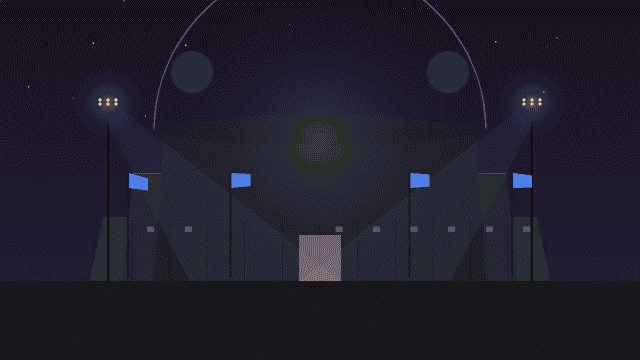
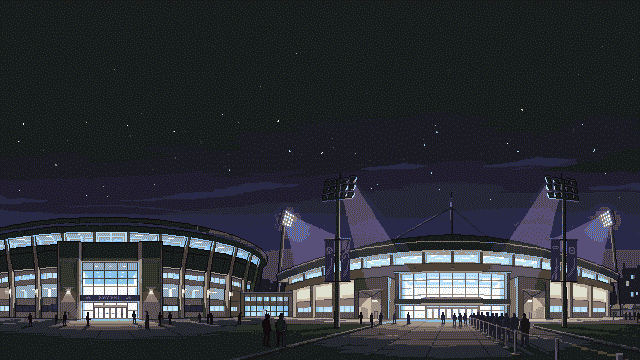
The exteriors get painted too, and the scrim learns how tall the cards are
The seven establishing cards were the last full-frame vector pictures in the
game, and the note saying not to generate them was right about the risk and
wrong about the conclusion: "a model would give back a different composition
and the card's own layout would no longer fit it." The layout is knowable. A
real --establish capture puts the title across the TOP CENTRE and two panels
in the BOTTOM CORNERS, so every prompt says the hero fills the lower two
thirds and the upper third stays empty sky, and all seven fit first time.

That immediately broke something, which is the honest half of this. The bottom
scrim was a gradient over the last 100px, ramping to full only at the very
bottom edge - fine for as long as an exterior was flat vector with a near-black
lower half. Against a painting the Circus ran red-and-cream tent stripes
straight through both corner cards, because their tops sit 164px up and
hud_panel's fill was never meant to cover a lit tent by itself.

It is the same failure the MARQUEE scrim above already fixed on this screen,
so it gets the same answer and the same shape - feather in, then FLAT, since a
ramp that only reaches strength at the bottom leaves the top of a card sitting
on nothing. The height cannot be a constant either: the right card grows 70px
per encore, so the scrim is solved from whichever card is taller. Checked at
one encore and at a two-Purist night.

The title menu's three rows were a leaf green, a pale sky blue and a salmon -
[…]

diff --git a/scripts/pixelise_paint.py b/scripts/pixelise_paint.py
@@ -40,9 +40,11 @@ TWO FRAMING RULES THE PROMPTS HAVE TO CARRY, both measured off draw_backdrop:
     to be empty - a tent pole or a doorway behind his spine reads as a mistake.
 
 USAGE
-  scripts/fetch_paint.sh <job-id> artifacts/paint/<name>.png     # download
-  .venv/bin/python scripts/pixelise_paint.py <name> [...]        # preview
-  .venv/bin/python scripts/pixelise_paint.py <name> --write
+  scripts/fetch_paint.sh <job-id> <name>            download a backdrop painting
+  scripts/fetch_paint.sh <job-id> ext_<name>        ...or an exterior
+  .venv/bin/python scripts/pixelise_paint.py                     preview everything
+  .venv/bin/python scripts/pixelise_paint.py --ext the_circus    one family, one venue
+  .venv/bin/python scripts/pixelise_paint.py --write
 """
 
 from __future__ import annotations
@@ -59,11 +61,30 @@ from pixelise_menu import ART_H, ART_W, load_palette, srgb_to_oklab
 
 ROOT = Path(__file__).resolve().parent.parent
 SRC = ROOT / "artifacts" / "paint"
-OUT = ROOT / "Assets" / "Backgrounds"
 
 # venue order matches Game.gd's venue_data(); the key is bg/<name>
 NAMES = ["backyard", "street_corner", "small_theatre", "the_circus",
 		 "championship", "world_arena", "the_midnight_show"]
+
+# THE TWO FAMILIES, and they are the same job at two camera positions. A BACKDROP is what
+# stands behind the performer during the act; an EXTERIOR is the establishing card shown
+# before it, the venue seen from outside. Both are full-frame 640x360 paintings reduced the
+# same way, so they share this file rather than growing a near-duplicate of it.
+#
+# THE EXTERIORS WERE PREVIOUSLY OFF-LIMITS TO A GENERATOR, on the recorded grounds that "an
+# exterior is a picture the game already composes correctly, with the venue's hero mid-frame
+# and the marquee text laid out against it - a model asked for 'a circus tent at night' would
+# give back a different composition and the card's own layout would no longer fit it." That
+# was right about the risk and wrong about the conclusion: the layout is knowable, so the
+# prompt can simply be written to it. Measured off a real --establish capture, the card puts
+# its title across the TOP CENTRE and two panels in the BOTTOM CORNERS, which is why every
+# exterior prompt here says the hero fills the lower two thirds and the upper third is empty
+# sky. The reason to bother is uniformity: once the seven backdrops are paintings, seven flat
+# vector exteriors are the only unpainted full-frame pictures left in the game.
+FAMILIES = {
+	"bg": (ROOT / "Assets" / "Backgrounds", "{}.png"),
+	"ext": (ROOT / "Assets" / "UI", "ext_{}.png"),
+}
 
 
 # HOW MUCH OF A PAINTING MAY SIT OUTSIDE THE LOCKED 48 BEFORE IT IS NOT WORTH SHIPPING.
@@ -85,7 +106,19 @@ NAMES = ["backyard", "street_corner", "small_theatre", "the_circus",
 #
 # The fix is always at the PROMPT, never here: steer a sky to deep indigo (the palette
 # holds 1f1a2e / 282848 / 585078) rather than teal, and keep foliage dark rather than
-# mid-green. 0.10 sits an order of magnitude clear of the good case.
+# mid-green.
+#
+# IT IS AN ADVISORY, NOT A GATE, AND IT OVER-FLAGS - say so rather than trust it. Across the
+# fourteen paintings so far it fired four times and only ONE was a real failure: the teal
+# backyard, whose out-of-gamut pixels were one large CONTIGUOUS wash across the sky. The
+# other three (the Championship hall and the World Arena, twice each as backdrop and
+# exterior) are cold-lit venues whose distant pixels are DISPERSED - floodlights, a crowd
+# speckle, blue window glass - and error diffusion handles scattered residual well, which
+# is the whole thing it is for. All three came through the snap looking right.
+#
+# So the number means "go and look at this one", which is why the tag says so. A contiguity
+# term would separate the two cases properly; it has not been worth writing, because looking
+# at the picture is the step it would be saving and that step is not optional anyway.
 GAMUT_FAR = 0.05
 GAMUT_MAX = 0.10
 
@@ -108,26 +141,32 @@ def gamut_fit(rgb: np.ndarray) -> float:
 	return far / len(flat)
 
 
-def build(name: str, write: bool, force: bool) -> str:
-	src = SRC / f"{name}.png"
+def build(fam: str, name: str, write: bool, force: bool) -> str:
+	stem = name if fam == "bg" else f"ext_{name}"
+	src = SRC / f"{stem}.png"
 	if not src.exists():
-		return f"{name}: no painting at artifacts/paint/{name}.png"
+		return f"{stem}: no painting at artifacts/paint/{stem}.png"
 	im = Image.open(src).convert("RGB")
 	if im.size != (ART_W, ART_H):
-		raise SystemExit(f"{name}: expected {ART_W}x{ART_H}, got {im.size}. A backdrop is "
+		raise SystemExit(f"{stem}: expected {ART_W}x{ART_H}, got {im.size}. These are "
 						 "authored at the art density and must never be resampled.")
 	src_rgb = np.asarray(im).astype(int)
 	out = snap_diffused(src_rgb, load_palette())
-	# opaque by construction: a backdrop covers the frame, and the seam blits it full-rect
+	# opaque by construction: both families cover the frame and are blitted full-rect
 	rgba = np.dstack([out, np.full(out.shape[:2], 255, np.uint8)])
 	cols = len(np.unique(out.reshape(-1, 3), axis=0))
-	spine = spine_busyness(out)
 	fit = gamut_fit(src_rgb)
-	tag = f"{name}: {cols} colours, spine {spine:.2f}, gamut {fit:.3f}{'  <-- REPROMPT' if fit > GAMUT_MAX else ''}"
+	tag = f"{stem}: {cols} colours, gamut {fit:.3f}"
+	if fam == "bg":
+		# only a backdrop has a performer standing in front of it
+		tag += f", spine {spine_busyness(out):.2f}"
+	if fit > GAMUT_MAX:
+		tag += "  <-- LOOK AT IT"
 	if not write:
 		return tag + "  (pass --write to apply)"
+	out_dir, pat = FAMILIES[fam]
 	return tag + " [" + artguard.save_guarded(
-		OUT / f"{name}.png", lambda q: Image.fromarray(rgba, "RGBA").save(q), force) + "]"
+		out_dir / pat.format(name), lambda q: Image.fromarray(rgba, "RGBA").save(q), force) + "]"
 
 
 def spine_busyness(img: np.ndarray) -> float:
@@ -151,12 +190,14 @@ def spine_busyness(img: np.ndarray) -> float:
 def main() -> int:
 	write = "--write" in sys.argv
 	force = "--force" in sys.argv
+	fams = [f for f in ("bg", "ext") if f"--{f}" in sys.argv] or list(FAMILIES)
 	only = [a for a in sys.argv[1:] if not a.startswith("--")]
-	OUT.mkdir(parents=True, exist_ok=True)
-	for name in NAMES:
-		if only and name not in only:
-			continue
-		print("  " + build(name, write, force))
+	for fam in fams:
+		FAMILIES[fam][0].mkdir(parents=True, exist_ok=True)
+		for name in NAMES:
+			if only and name not in only:
+				continue
+			print("  " + build(fam, name, write, force))
 	return 0
 
 
